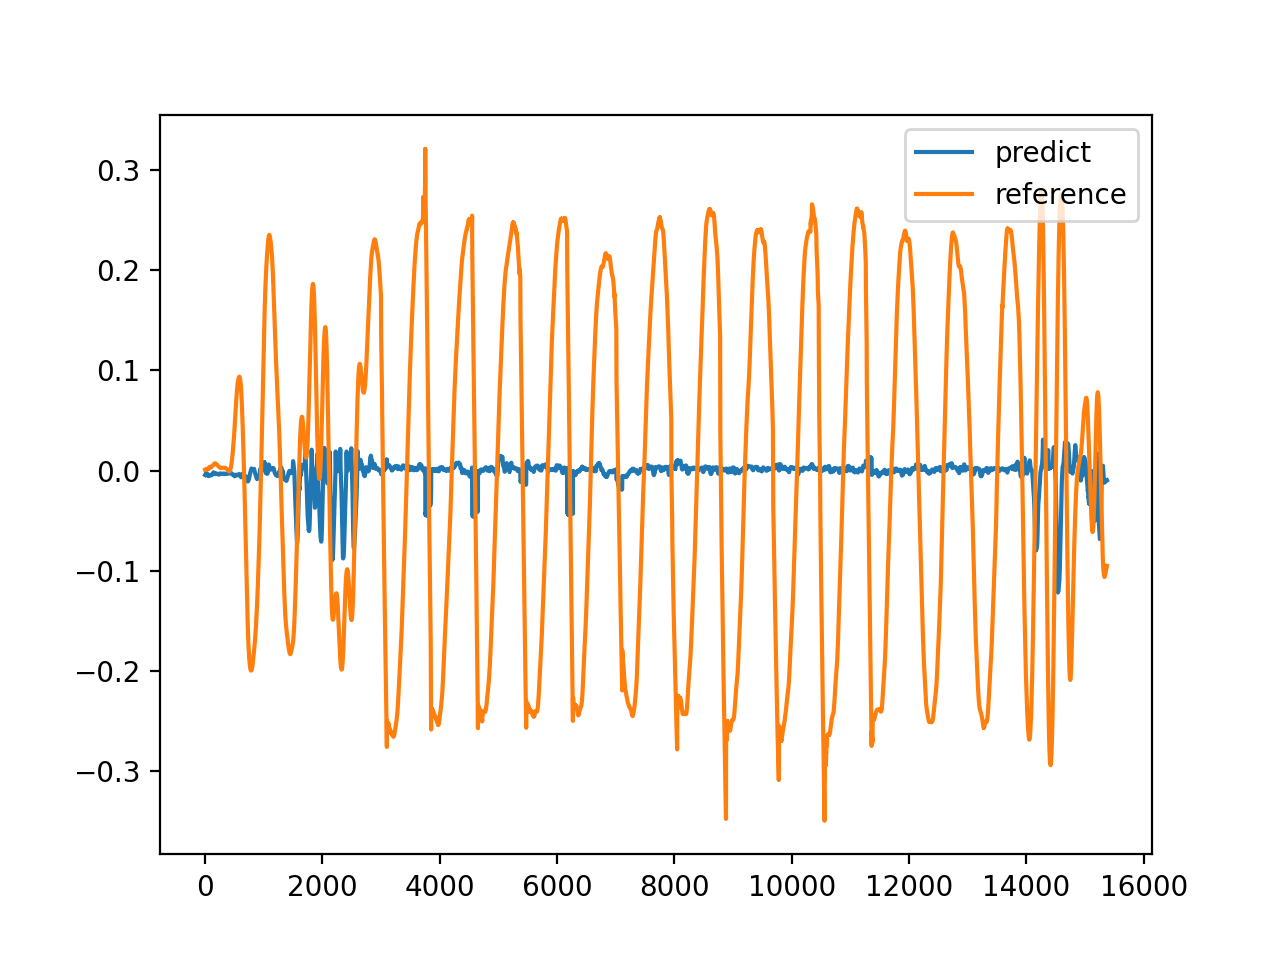
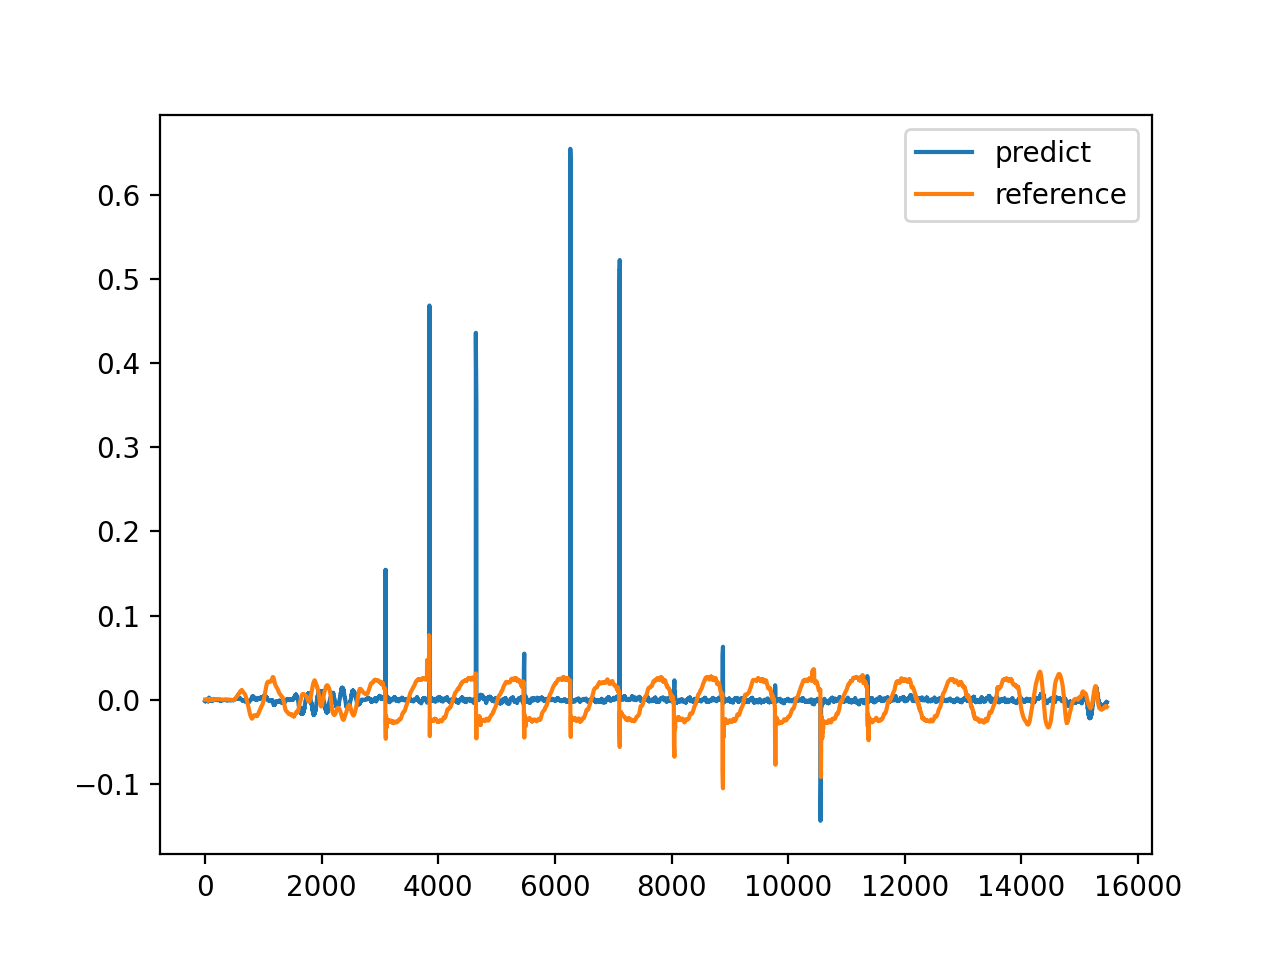
feature: pip-module complete.

diff --git a/src/models.py b/src/models.py
@@ -19,7 +19,7 @@ from ptk.utils import *
 
 # When importing every models from this module, make sure only models are
 # imported
-__all__ = ["InertialModule", "IMUHandler", "ResBlock", "SumLayer", "IMUHandlerWithPreintegration"]
+__all__ = ["InertialModule", "IMUHandler", "ResBlock", "SumLayer", "IMUHandlerWithPreintegration", "PreintegrationModule"]
 
 
 class ResBlock(nn.Module):
@@ -290,6 +290,51 @@ input sequence and returns the prediction for the final step.
             self.sum_layer(input_seq),
             self.adaptive_pooling(input_seq),
         ), dim=1)
+
+
+class PreintegrationModule(nn.Module):
+    def __init__(self, device=torch.device("cpu"), data_type=torch.float32, imu_freq=200):
+        super().__init__()
+        self.device = device
+        self.data_type = data_type
+
+        self.delta_t = 1 / 200.0
+
+        self.identity_matrix = torch.eye(n=3, m=3, device=device, dtype=data_type)
+
+    def forward(self, input_seq):
+        """
+    This method computes delta R, v and p (orientation, velocity and position),
+    according to https://arxiv.org/abs/2101.07061 and
+    https://arxiv.org/abs/1512.02363 about inertial feature preintegration.
+
+        :param a_samples: IMU accelerometer input samples to compute over.
+        :param w_samples: IMU gyroscope input samples to compute over.
+        :param initial_velocity: Whenever using a statefull approach, passing
+        initial_velocity will bring up better preintegration results.
+        :return: R (converted from matriz into quaternion), v and p (both 3D tensors).
+        """
+        # orientation matrix
+        delta_r = self.identity_matrix.clone()
+        # velocity tensor (3 element)
+        delta_v = 0.0
+        # position tensor (3 element)
+        delta_p = 0.0
+
+        # avoid dividing delta_t by 2 on every loop iteration
+        delta_t_divided_by_2 = self.delta_t / 2
+
+        # interactive productory and summation steps
+        for w_k, a_k in zip(input_seq[0, :, :3], input_seq[0, :, 3:]):
+            delta_r = torch.matmul(delta_r, torch.tensor(axis_angle_into_rotation_matrix(w_k.cpu().numpy(), self.delta_t), device=self.device, dtype=self.data_type))
+            delta_v += torch.matmul(delta_r, a_k * self.delta_t)
+            # Slightly different from original paper, now including
+            # initial_velocity (if available) to compute CURRENT velocity, not
+            # only delta_v (variation)
+            delta_p += delta_v * self.delta_t + torch.matmul(delta_r, a_k * delta_t_divided_by_2 * self.delta_t)
+
+        # noinspection PyTypeChecker
+        return torch.cat((delta_p, torch.tensor(axis_angle_into_quaternion(*rotation_matrix_into_axis_angle(delta_r.cpu().numpy())), device=self.device, dtype=self.data_type)))  # , delta_v
 
 
 class InertialModule(nn.Module):
@@ -1314,7 +1359,7 @@ index in the original array.
             # only delta_v (variation)
             delta_p += (initial_velocity + delta_v) * self.delta_t + torch.matmul(delta_r, a_k * delta_t_divided_by_2)
 
-        return delta_p, delta_r, delta_v,
+        return delta_p, delta_r, delta_v
 
     def rotation_matrix_into_axis_angle(self, r_matrix):
         """

diff --git a/src/train_first_inertial_stage.py b/src/train_first_inertial_stage.py
@@ -5,7 +5,7 @@ from tqdm import tqdm
 
 from mydatasets import *
 from ptk.timeseries import *
-from models import InertialModule
+from models import *
 
 
 def experiment():
@@ -21,8 +21,10 @@ Runs the experiment itself.
     # join_npz_files(files_origin_path="./tmp_y", output_file="./y_data.npz")
     # return
 
-    model = InertialModule(input_size=6, hidden_layer_size=128, n_lstm_units=1, bidirectional=True,
-                           output_size=7, training_batch_size=1024, epochs=150, device=device, validation_percent=0.2)
+    # model = InertialModule(input_size=6, hidden_layer_size=128, n_lstm_units=1, bidirectional=True,
+    #                        output_size=7, training_batch_size=1024, epochs=150, device=device, validation_percent=0.2)
+
+    model = PreintegrationModule(device=device)
 
     # Carrega o extrator de features convolucional pretreinado e congela (grad)
     # model.load_feature_extractor()
@@ -55,12 +57,12 @@ Runs the experiment itself.
 
     # Let's go fit! Comment if only loading pretrained model.
     # model.fit(X, y)
-    model.fit()
+    # model.fit()
 
     model.eval()
     # ===========PREDICAO-["px", "py", "pz", "qw", "qx", "qy", "qz"]============
     room2_tum_dataset = AsymetricalTimeseriesDataset(x_csv_path="dataset-room2_512_16/mav0/imu0/data.csv", y_csv_path="dataset-room2_512_16/mav0/mocap0/data.csv",
-                                                     min_window_size=100, max_window_size=101, shuffle=False, device=device, convert_first=True)
+                                                     min_window_size=10, max_window_size=11, shuffle=False, device=device, convert_first=True)
 
     predict = []
     reference = []
@@ -78,7 +80,7 @@ Runs the experiment itself.
         plt.plot(arange(predict.shape[0]), predict[:, i], arange(reference.shape[0]), reference[:, i])
         plt.legend(['predict', 'reference'], loc='upper right')
         plt.savefig(dim_name + ".png", dpi=200)
-        # plt.show()
+        plt.show()
 
     # ===========FIM-DE-PREDICAO-["px", "py", "pz", "qw", "qx", "qy", "qz"]=====
 
@@ -91,7 +93,7 @@ if __name__ == '__main__':
 
     # plot_csv()
 
-    if torch.cuda.is_available():
+    if False and torch.cuda.is_available():
         dev = "cuda:0"
         print("Usando GPU")
     else:
